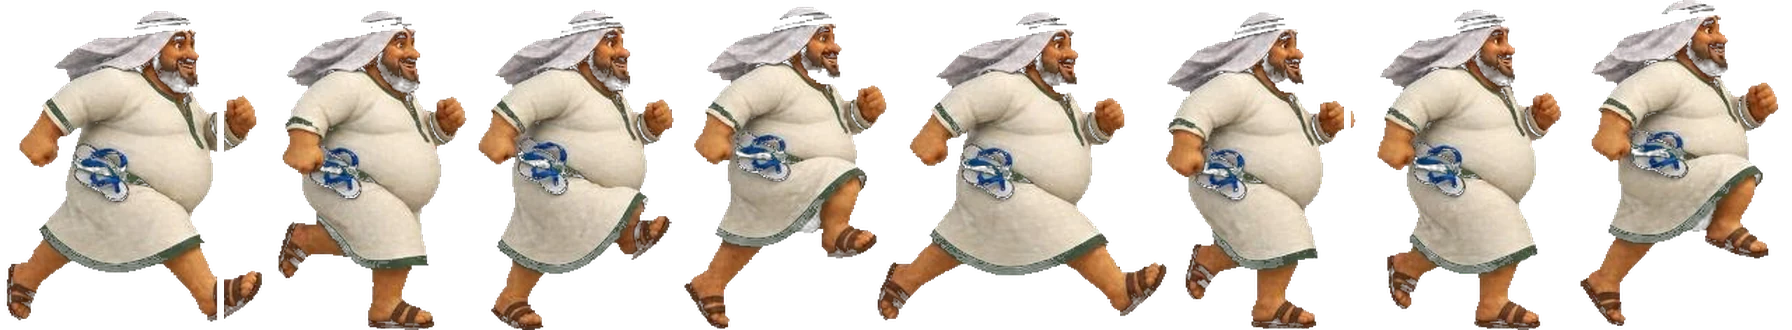
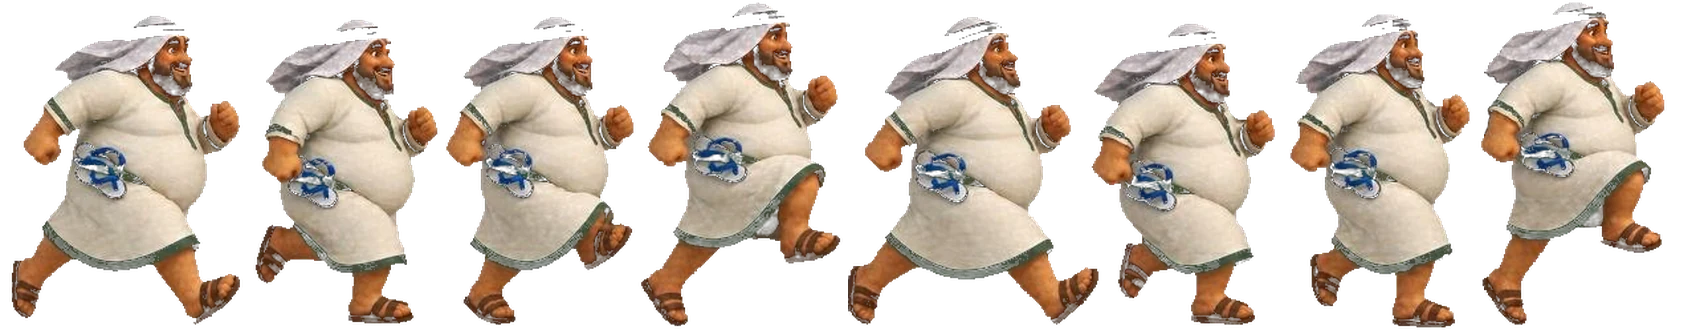
لوحة ركض جديدة بحركة جسم كاملة + ايقاف الحركة البرمجية المكررة

Changed region(s): [[0.0, 0.0, 1.0, 1.0], [0.2812, 0.6667, 0.3125, 0.697]]

diff --git a/index.html b/index.html
@@ -218,14 +218,14 @@ canvas{display:block;border-radius:14px;box-shadow:0 10px 30px #0006;background:
   /* ---------- شخصية اللاعب (صور) ---------- */
   var HERO = { i1: null, i2: null, i3: null, slip: null, smash: null, spin: null, win: null, runSheet: null, runN: 8, ready: false };
   (function loadHero() {
-    var a = new Image(); a.onload = function () { HERO.i1 = a; HERO.ready = true; }; a.src = 'hero_idle.png?v=10';
-    var b = new Image(); b.onload = function () { HERO.i2 = b; }; b.src = 'hero_run.png?v=10';
-    var c = new Image(); c.onload = function () { HERO.i3 = c; }; c.src = 'hero_throw.png?v=10';
-    var s = new Image(); s.onload = function () { HERO.slip = s; }; s.src = 'slipper.png?v=10';
-    var d1 = new Image(); d1.onload = function () { HERO.smash = d1; }; d1.src = 'hero_smash.png?v=10';
-    var d2 = new Image(); d2.onload = function () { HERO.spin = d2; }; d2.src = 'hero_spin.png?v=10';
-    var d3 = new Image(); d3.onload = function () { HERO.win = d3; }; d3.src = 'hero_win.png?v=10';
-    var rs = new Image(); rs.onload = function () { HERO.runSheet = rs; HERO.runN = 8; }; rs.src = 'hero_run_sheet.webp?v=10';
+    var a = new Image(); a.onload = function () { HERO.i1 = a; HERO.ready = true; }; a.src = 'hero_idle.png?v=11';
+    var b = new Image(); b.onload = function () { HERO.i2 = b; }; b.src = 'hero_run.png?v=11';
+    var c = new Image(); c.onload = function () { HERO.i3 = c; }; c.src = 'hero_throw.png?v=11';
+    var s = new Image(); s.onload = function () { HERO.slip = s; }; s.src = 'slipper.png?v=11';
+    var d1 = new Image(); d1.onload = function () { HERO.smash = d1; }; d1.src = 'hero_smash.png?v=11';
+    var d2 = new Image(); d2.onload = function () { HERO.spin = d2; }; d2.src = 'hero_spin.png?v=11';
+    var d3 = new Image(); d3.onload = function () { HERO.win = d3; }; d3.src = 'hero_win.png?v=11';
+    var rs = new Image(); rs.onload = function () { HERO.runSheet = rs; HERO.runN = 8; }; rs.src = 'hero_run_sheet.webp?v=11';
   })();
   function drawHeroSprite(g, x, y, w, h, face, frame, opt) {
     opt = opt || {};
@@ -241,12 +241,12 @@ canvas{display:block;border-radius:14px;box-shadow:0 10px 30px #0006;background:
       /* طور الخطوة: ٨ إطارات = دورتين كاملتين (كل خطوة نطة) */
       var stridePh = (opt.runFrame || 0) + (opt.phase || 0);
       var sp2 = stridePh * 0.25 * Math.PI * 2;          /* دورتين لكل دورة ركض */
-      var bob = -Math.abs(Math.sin(sp2)) * 3.1;      /* نطة الجسم مع كل خطوة */
-      var stretch = 1 + Math.abs(Math.sin(sp2)) * 0.03;
-      var lean2 = Math.sin(sp2) * 0.016;             /* ميل خفيف متزامن */
+      var bob = 0;   /* اللوحة الجديدة فيها نطة الجسم — لا نضيف فوقها */
+      var stretch = 1;
+      var lean2 = 0;
       var th3 = th2 * stretch, tw3 = tw2 * stretch;
       var by2 = Math.round(y + h + bob);
-      var lx2 = Math.sin(sp2) * 1.4;    /* تمايل أفقي بسيط */
+      var lx2 = 0;
       var dx = Math.round(-tw3 / 2), dy = -th3;
       g.save();
       g.translate(cx2, by2); g.scale(face, 1);
@@ -255,7 +255,7 @@ canvas{display:block;border-radius:14px;box-shadow:0 10px 30px #0006;background:
       if (opt.alpha != null) g.globalAlpha = opt.alpha;
       /* شبحة الإطار السابق — تعطي إحساس سرعة وانسيابية */
       if (opt.ghost && HERO.runSheet) {
-        g.globalAlpha = 0.13 * (opt.alpha == null ? 1 : opt.alpha);
+        g.globalAlpha = 0.10 * (opt.alpha == null ? 1 : opt.alpha);
         var rg = ((rf - 1) % n + n) % n;
         g.drawImage(HERO.runSheet, Math.round(rg * fw), 0, Math.round(fw), fh, dx + 3, dy, Math.round(tw3), Math.round(th3));
         g.globalAlpha = (opt.alpha == null ? 1 : opt.alpha);
